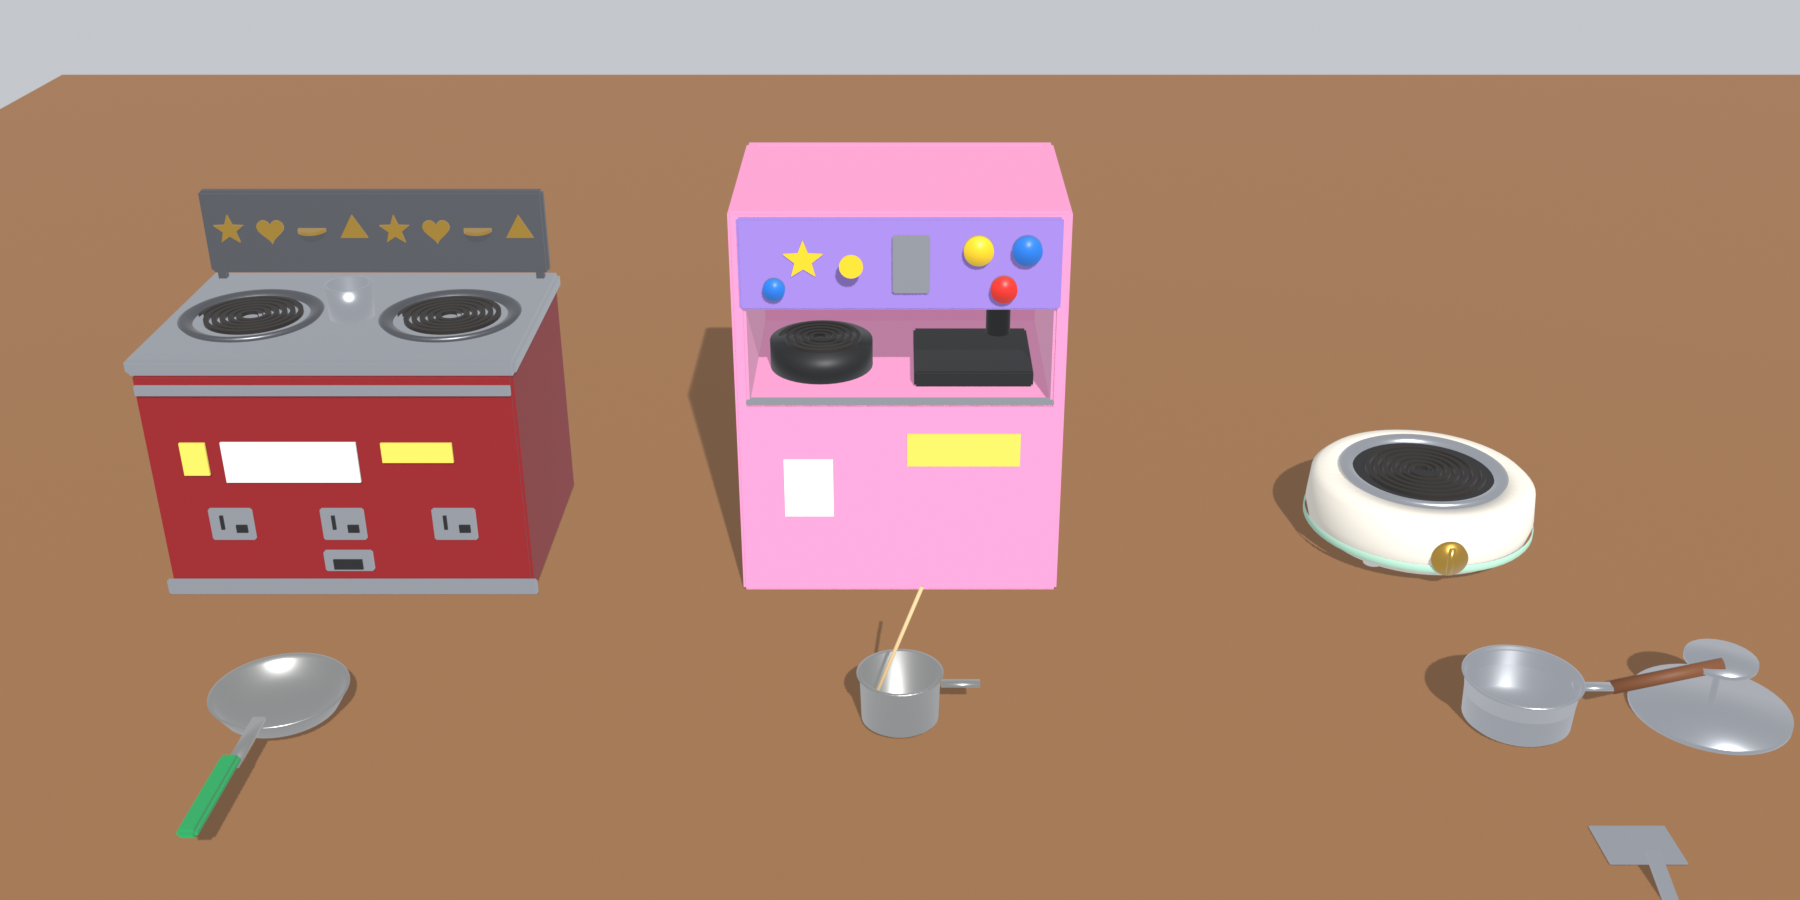
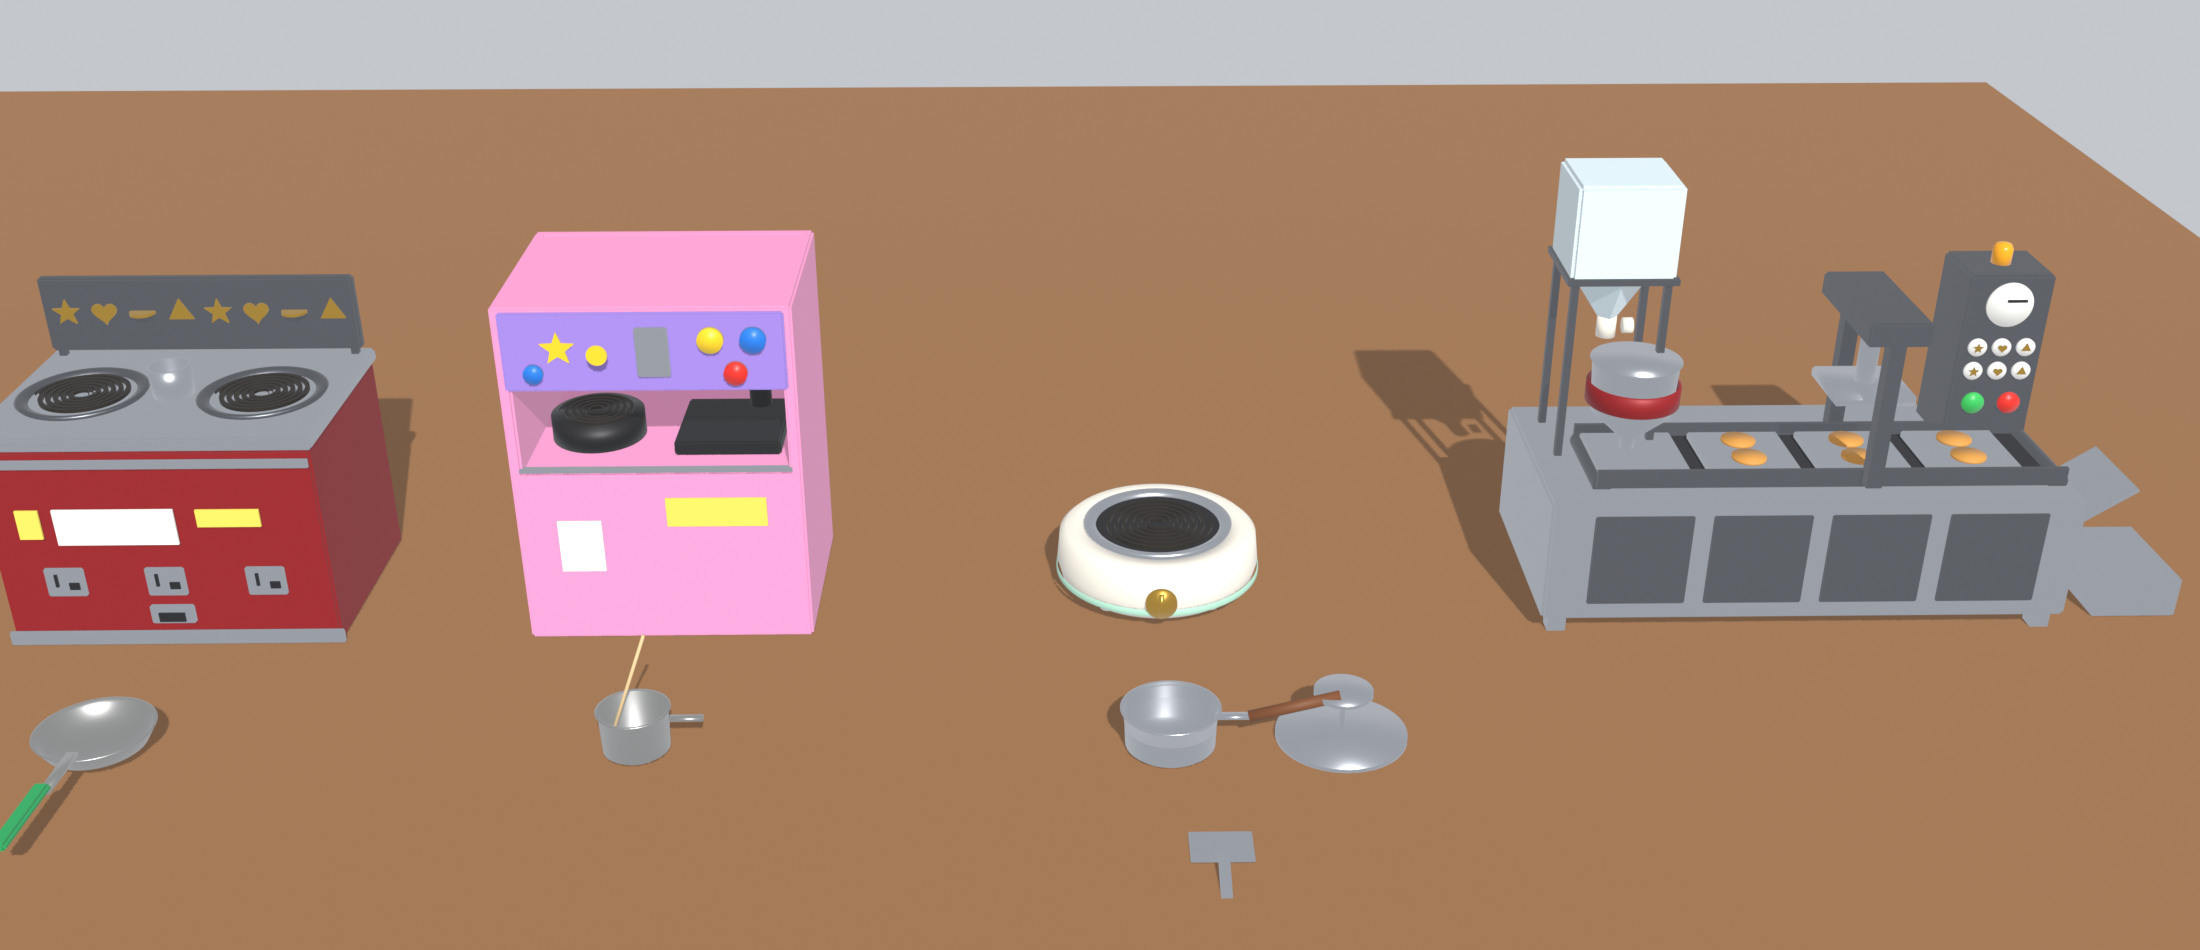
feat: Lv5 factory dalgona machine (hopper, kettle, conveyor, stamping press, shape-select panel) and design for pick-a-shape auto production

diff --git a/tools/blender/machines.py b/tools/blender/machines.py
@@ -400,6 +400,145 @@ def era4_tools():
     return objs
 
 
+
+# ─────────────────────────── 5단계(최고 등급): 공장식 달고나 기계 ───────────────────────────
+# 사용자 결정 (2026-11-18): 가장 높은 등급 = 진짜 기계로 뽑아내는 공장식. 기계를 눌러 도안을 고르면 그 모양만 뽑아냄.
+# 레퍼런스: 사용자 사진(자판기 속: 투명 설탕 통 + 아래 나사식 공급기·흰 손잡이, 아날로그 계기판이 달린 제어판, 배선),
+# 사탕 공장 디포지터 라인(설탕 통 → 끓이는 솥 → 노즐로 틀에 떨어뜨림 → 컨베이어 → 눌러 찍기 → 나오는 곳).
+# 왼쪽부터: 투명 설탕 통 → 스테인리스 솥(빨간 가열 띠) + 노즐 → 컨베이어 위 틀 쟁반 → 가운데 찍는 프레스(문) →
+# 오른쪽 제어판(계기판·도안 고르는 버튼 6개·시작/정지·경고등) → 끝의 미끄럼판 → 받는 쟁반.
+GLASS = ("Glass", (220, 236, 240), 0.0, 0.05, "Glass")
+BELT = ("Belt", (46, 46, 50), 0.0, 0.8, "Rubber")
+GREEN_BTN = ("GreenButton", (60, 190, 90), 0.0, 0.4, "SmoothPlastic")
+AMBER = ("Amber", (255, 170, 30), 0.0, 0.3, "Neon")
+GAUGE = ("GaugeFace", (246, 244, 236), 0.0, 0.5, "SmoothPlastic")
+DALGONA = ("Dalgona", (214, 150, 70), 0.0, 0.6, "SmoothPlastic")
+
+
+def era5():
+    W, D = 8.6, 3.8
+    BASE_H = 2.4
+    BELT_Z = BASE_H + 0.12
+    objs = []
+    bm = bmesh.new()  # 스테인리스 받침 몸통 + 다리
+    add_box(bm, (0, 0, 0.3 + (BASE_H - 0.3) / 2), (W, D, BASE_H - 0.3), bevel=0.05)
+    for x in (-W / 2 + 0.3, W / 2 - 0.3):
+        for y in (-D / 2 + 0.3, D / 2 - 0.3):
+            add_box(bm, (x, y, 0.15), (0.3, 0.3, 0.3))
+    objs.append(finish("Era5_Base", bm, STEEL))
+    bm = bmesh.new()  # 앞면 문 손잡이·환기구 줄 (어두운 쇠)
+    for x in (-2.8, -0.9, 1.0, 2.9):
+        add_box(bm, (x, -D / 2 - 0.02, 1.4), (1.6, 0.04, 1.6), bevel=0.02)
+    objs.append(finish("Era5_Doors", bm, STEEL_DARK))
+    # 컨베이어: 고무 벨트 + 양 끝 롤러 + 옆 테두리
+    bm = bmesh.new()
+    add_box(bm, (0.3, -0.5, BELT_Z), (W - 1.2, 1.6, 0.08))
+    objs.append(finish("Era5_Belt", bm, BELT))
+    bm = bmesh.new()
+    for x in (-W / 2 + 0.9, W / 2 - 0.3):
+        add_cyl(bm, (x, -0.5, BELT_Z - 0.05), 0.16, 1.7, seg=24, axis="Y")
+    for y in (-1.38, 0.38):
+        add_box(bm, (0.3, y, BELT_Z + 0.08), (W - 1.0, 0.08, 0.3))
+    objs.append(finish("Era5_Rails", bm, STEEL_DARK))
+    # 틀 쟁반 4개 (둥근 홈 2개씩) + 그 위 달고나 몇 개
+    bm = bmesh.new()
+    trays = [-2.7, -0.9, 0.9, 2.7]
+    for x in trays:
+        add_box(bm, (x, -0.5, BELT_Z + 0.1), (1.5, 1.4, 0.12), bevel=0.02)
+    objs.append(finish("Era5_Trays", bm, STEEL))
+    bm = bmesh.new()
+    for x in trays[1:]:
+        for y in (-0.82, -0.18):
+            add_cyl(bm, (x, y, BELT_Z + 0.18), 0.28, 0.05, seg=24)
+    objs.append(finish("Era5_Dalgona", bm, DALGONA, smooth=True))
+    # 왼쪽: 투명 설탕 통 (아래가 좁아지는 깔때기) + 흰 손잡이 공급기 + 솥
+    hx = -W / 2 + 1.2
+    bm = bmesh.new()
+    add_box(bm, (hx, 0.6, BASE_H + 3.9), (1.7, 1.5, 1.6), bevel=0.06)
+    add_lathe(bm, [(0.15, 0.0), (0.75, 0.9)], center=(hx, 0.6, BASE_H + 2.2), seg=4)
+    objs.append(finish("Era5_Hopper", bm, GLASS))
+    bm = bmesh.new()  # 통 속 설탕
+    add_box(bm, (hx, 0.6, BASE_H + 3.55), (1.5, 1.3, 0.85))
+    objs.append(finish("Era5_Sugar", bm, WHITE))
+    bm = bmesh.new()  # 공급기(나사 통) + 흰 손잡이
+    add_cyl(bm, (hx, 0.6, BASE_H + 2.05), 0.16, 0.35, seg=20)
+    add_cyl(bm, (hx + 0.35, 0.6, BASE_H + 2.05), 0.13, 0.16, seg=20, axis="X")
+    objs.append(finish("Era5_Feeder", bm, CREAM, smooth=True))
+    bm = bmesh.new()  # 설탕 통 받침대: 기둥 4개 + 통 아래 테
+    for dx in (-0.75, 0.75):
+        for dy in (-0.05, 1.25):
+            add_box(bm, (hx + dx, dy, BASE_H + 1.55), (0.12, 0.12, 3.1))
+    add_box(bm, (hx, 0.6, BASE_H + 3.1), (1.8, 1.6, 0.1))
+    objs.append(finish("Era5_HopperStand", bm, STEEL_DARK))
+    bm = bmesh.new()  # 솥: 원통 + 아래 원뿔, 노즐이 컨베이어 쪽으로
+    add_lathe(bm, [(0.0, 0.0), (0.12, 0.0), (0.12, 0.25), (0.65, 0.75), (0.7, 1.6), (0.74, 1.65), (0.0, 1.65)], center=(hx + 0.3, -0.35, BASE_H + 0.2), seg=40)
+    add_box(bm, (hx + 0.3, 0.1, BASE_H + 1.45), (0.12, 0.9, 0.12))  # 통 → 솥 관
+    objs.append(finish("Era5_Kettle", bm, STEEL, smooth=True))
+    bm = bmesh.new()  # 솥 가열 띠
+    add_lathe(bm, [(0.72, 0.9), (0.76, 0.92), (0.76, 1.25), (0.72, 1.27)], center=(hx + 0.3, -0.35, BASE_H + 0.2), seg=40)
+    objs.append(finish("Era5_Heater", bm, RED_BODY, smooth=True))
+    # 가운데 찍는 프레스: 기둥 2개 + 위 들보 + 피스톤 + 도장판(고른 도안이 끼워짐)
+    px = 0.9
+    bm = bmesh.new()
+    for y in (-1.5, 0.5):
+        add_box(bm, (px, y, BELT_Z + 1.3), (0.25, 0.25, 2.6))
+    add_box(bm, (px, -0.5, BELT_Z + 2.65), (1.0, 2.3, 0.4), bevel=0.04)
+    objs.append(finish("Era5_PressFrame", bm, STEEL_DARK))
+    bm = bmesh.new()
+    add_cyl(bm, (px, -0.5, BELT_Z + 1.95), 0.16, 1.1, seg=24)
+    add_box(bm, (px, -0.5, BELT_Z + 1.3), (1.3, 1.25, 0.18), bevel=0.03)
+    objs.append(finish("Era5_PressHead", bm, STEEL, smooth=True))
+    bm = bmesh.new()  # 도장판 아래 도안 자국 (예시 별 2개, 게임에서 고른 도안으로 바꿈)
+    for y in (-0.82, -0.18):
+        add_star(bm, (px, y, BELT_Z + 1.2), 0.24, 0.1, 0.04)
+    objs.append(finish("Era5_Stamp", bm, GOLD))
+    # 오른쪽 제어판: 기울어진 상자 + 계기판 + 도안 버튼 6개 + 시작·정지 + 경고등
+    cx = W / 2 - 0.9
+    bm = bmesh.new()
+    add_box(bm, (cx, 0.9, BASE_H + 1.5), (1.4, 1.2, 3.0), bevel=0.05)
+    objs.append(finish("Era5_Panel", bm, STEEL_DARK))
+    bm = bmesh.new()
+    add_cyl(bm, (cx, 0.28, BASE_H + 2.5), 0.38, 0.06, seg=40, axis="Y")
+    objs.append(finish("Era5_Gauge", bm, GAUGE, smooth=True))
+    bm = bmesh.new()  # 계기 바늘
+    add_box(bm, (cx + 0.1, 0.23, BASE_H + 2.58), (0.32, 0.03, 0.04))
+    objs.append(finish("Era5_Needle", bm, BLACK))
+    bm = bmesh.new()  # 도안 고르는 버튼 6개 (금색 도형은 따로)
+    for i in range(6):
+        add_cyl(bm, (cx - 0.4 + (i % 3) * 0.4, 0.28, BASE_H + 1.75 - (i // 3) * 0.42), 0.15, 0.08, seg=24, axis="Y")
+    objs.append(finish("Era5_ShapeButtons", bm, WHITE, smooth=True))
+    bm = bmesh.new()  # 버튼 위 도형 (별·하트·원·세모·우산 대신 단순 모양)
+    for i in range(6):
+        c = (cx - 0.4 + (i % 3) * 0.4, 0.22, BASE_H + 1.75 - (i // 3) * 0.42)
+        k = i % 3
+        if k == 0:
+            add_star(bm, (0, 0, 0), 0.09, 0.04, 0.02)
+        elif k == 1:
+            add_heart(bm, (0, 0, 0), 0.08, 0.02)
+        else:
+            add_star(bm, (0, 0, 0), 0.09, 0.045, 0.02, points=3)
+        vs = [v for v in bm.verts if v.co.length < 0.2 and abs(v.co.z) < 0.02]
+        bmesh.ops.rotate(bm, verts=vs, cent=(0, 0, 0), matrix=Matrix.Rotation(math.pi / 2, 3, "X"))
+        bmesh.ops.translate(bm, verts=vs, vec=c)
+    objs.append(finish("Era5_ShapeIcons", bm, GOLD))
+    bm = bmesh.new()
+    add_cyl(bm, (cx - 0.3, 0.28, BASE_H + 0.75), 0.18, 0.1, seg=24, axis="Y")
+    objs.append(finish("Era5_Start", bm, GREEN_BTN, smooth=True))
+    bm = bmesh.new()
+    add_cyl(bm, (cx + 0.3, 0.28, BASE_H + 0.75), 0.18, 0.1, seg=24, axis="Y")
+    objs.append(finish("Era5_Stop", bm, REDB, smooth=True))
+    bm = bmesh.new()  # 경고등
+    add_lathe(bm, [(0.0, 0.0), (0.16, 0.0), (0.16, 0.25), (0.12, 0.33), (0.0, 0.36)], center=(cx, 0.9, BASE_H + 3.0), seg=24)
+    objs.append(finish("Era5_Beacon", bm, AMBER, smooth=True))
+    # 끝: 미끄럼판 + 받는 쟁반
+    bm = bmesh.new()
+    add_box(bm, (W / 2 + 0.55, -0.5, BELT_Z - 0.6), (1.3, 1.6, 0.06))
+    vs = [v for v in bm.verts]
+    bmesh.ops.rotate(bm, verts=vs, cent=(W / 2 + 0.55, -0.5, BELT_Z - 0.6), matrix=Matrix.Rotation(-0.6, 3, "Y"))
+    add_box(bm, (W / 2 + 1.4, -0.5, 0.35), (1.4, 1.9, 0.7), bevel=0.03)
+    objs.append(finish("Era5_Chute", bm, STEEL))
+    return objs
+
 groups = {
     "Era2": (era2(), (-12, 0, 0)),
     "Era2Tools": (era2_ladle(), (-12, -5, 0.4)),  # 국자 기준점 = 그릇 테두리 가운데라 미리 보기에선 띄움
@@ -407,6 +546,7 @@ groups = {
     "Era3Tools": (era3_cup(), (-4, -5, 0)),
     "Era4": (era4(), (4, 0, 0)),
     "Era4Tools": (era4_tools(), (4, -5, 0)),
+    "Era5": (era5(), (14.5, 0, 0)),
 }
 
 # 내보내기 전: 모두 원점(0,0,0)에 둔 채로 내보냄 (게임에서 위치를 정함). 크기·기준점 기록
@@ -444,12 +584,12 @@ sun.rotation_euler = (math.radians(50), math.radians(-15), math.radians(25))
 scene.collection.objects.link(sun)
 cam = bpy.data.objects.new("Cam", bpy.data.cameras.new("Cam"))
 cam.data.lens = 35
-cam.location = (-4, -24, 13)
-cam.rotation_euler = (Vector((-4, -1.5, 2.2)) - cam.location).to_track_quat("-Z", "Y").to_euler()
+cam.location = (2.5, -32, 18)
+cam.rotation_euler = (Vector((3.0, -1.5, 2.8)) - cam.location).to_track_quat("-Z", "Y").to_euler()
 scene.collection.objects.link(cam)
 scene.camera = cam
 scene.render.engine = "BLENDER_EEVEE"
-scene.render.resolution_x, scene.render.resolution_y = 1800, 900
+scene.render.resolution_x, scene.render.resolution_y = 2200, 950
 scene.view_settings.view_transform = "Standard"
 scene.render.filepath = os.path.abspath(os.path.join(OUT, "machines_preview.png"))
 bpy.ops.render.render(write_still=True)

diff --git a/docs/MACHINE_ERAS.md b/docs/MACHINE_ERAS.md
@@ -8,6 +8,7 @@
 - 직접 찾아본 것 (구글 이미지 검색, 2026-11-18):
   - "달고나 자판기 문방구": 분홍 캐비닛 + 보라 안내판(만화 그림·풍선·구름), 은색 동전기, 둥근 버튼(노랑·파랑·빨강 불빛·흰색), 가운데 움푹한 선반의 왼쪽 알루미늄 컵(설탕 녹이기, 꼬치가 꽂힘)·오른쪽 검은 사각 누름판과 원통 누름 손잡이, 아래 노란 주의 스티커. 2000·2011년 표시된 사진도 있음. "고장 수리" 영상의 스테인리스 판매기(화구 2개)도 같은 계보.
   - "달고나 메이커 가정용": 파스텔(분홍·흰·민트) 둥근 미니 전기 화구 + 은색 링 + 검은 나선 열선 + 금색 다이얼, 스테인리스 손잡이 냄비(나무 손잡이), 동그란 누름판, 도안 틀·헤라·꼬치가 든 세트.
+- 공장식(Lv5): 사용자 사진(자판기 속 투명 설탕 통 + 나사식 공급기·흰 손잡이, 계기판 달린 제어판, 배선: `images/machines/ref_era5_inside.jpg`)과 사탕 공장 디포지터 라인(설탕 통 → 솥 → 노즐 → 틀 → 컨베이어)을 합쳐 만듦. 검색으로는 실제 달고나 공장 기계 사진을 찾지 못함 (수제·자판기 영상, 포장 기계만 나옴).
 - 글 자료(웹 검색): 문방구 달고나 자판기는 연탄 대신 열선이고 동전을 넣으면 설탕이 나오는 방식([thewiki.kr 달고나](https://thewiki.kr/w/달고나)). 1970~80년대 길거리 간식으로 유행.
 - 실제 기계의 상표·캐릭터 그림은 따라 그리지 않는다. 3D는 색 면과 단순한 별·구름 무늬만.
 
@@ -18,11 +19,20 @@
 | 2 | 1990~2000년대 초 | **1세대 철제 달고나 판매기**: 스테인리스 윗판 + 열선 화구 2개 + 뒤쪽 금형 견본판(도안 8칸) + 빨간 철판 몸통 + 동전 투입기 3개 | 알루미늄 국자 + 초록 플라스틱 손잡이 | `Era2_*`, `Era2_Ladle`·`Era2_LadleGrip` |
 | 3 | 2000년대 후반~2010년대 | **2세대 분홍 캐릭터 자판기**: 분홍 캐비닛 + 보라 안내판 + 동전기 + 둥근 버튼, 선반에 전기 화구와 검은 누름판·누름 손잡이 | 알루미늄 녹이는 컵 + 나무 꼬치 | `Era3_*`, `Era3_Cup`·`Era3_Stick` |
 | 4 | 2020년대 | **가정용 미니 달고나 메이커**: 파스텔 둥근 전기 화구 + 금색 다이얼 | 스테인리스 손잡이 냄비(나무 손잡이), 동그란 누름판, 헤라 | `Era4_*`, `Era4_Pan`·`Era4_PanHandle`·`Era4_Presser`·`Era4_Scraper` |
+| 5 (최고) | 공장식 | **공장식 달고나 기계**: 투명 설탕 통 + 공급기 → 스테인리스 솥(빨간 가열 띠) + 노즐 → 컨베이어 위 틀 쟁반 → 가운데 찍는 프레스 → 제어판(계기판·도안 버튼 6개·시작/정지·경고등) → 미끄럼판 → 받는 쟁반 | 없음 (기계가 다 함) | `Era5_*` |
 
 기획서 표 14("화로 Lv마다 적정 온도 구간 +8%")는 그대로 기계 Lv에 붙인다. 시대별로 손맛이 조금씩 달라지는 안(승인 필요):
 - Lv2 열선: 온도가 연탄보다 빨리 오르내림 → 높이 조작 반응이 빠름. 화구 2개라 한 판 끝나면 다음 판 준비가 빠름(대기 시간 감소).
 - Lv3 자판기: 동전을 넣으면 설탕이 정량으로 나옴 → 설탕 단계 실수가 줄어듦(설탕 점수 하한), 누름판이 레버라 누르기 구간 +.
 - Lv4 가정용 메이커: 다이얼로 온도를 고름(높이 대신 다이얼) → 적정 온도 구간이 가장 넓음, 냄비 손잡이가 길어 붓기 쉬움.
+
+## Lv5 공장식 기계: 눌러서 도안을 고르면 그 모양만 뽑아냄 (사용자 결정 2026-11-18)
+1. 기계(제어판)를 누르면 도안 고르기 화면(지금 `CutterPicker`)이 뜸. 고른 도안이 제어판 버튼 불빛과 프레스 도장판(`Era5_Stamp`)에 끼워짐.
+2. 시작 버튼 → 손 미니게임 없이 기계가 자동으로 돌아감 (연출):
+   설탕 통에서 설탕이 공급기로 내려감 → 솥에서 끓음(계기판 바늘이 올라감, 경고등 깜빡) → 노즐이 틀 쟁반에 반죽을 떨어뜨림 →
+   컨베이어가 프레스 밑으로 → 고른 도안으로 쿵 찍음 → 미끄럼판으로 내려가 받는 쟁반에 쌓임.
+3. 한 번 돌릴 때 고른 도안만 여러 개(예: 4개) 나오고, 품질은 고정(예: Excellent, 실패 없음). 손으로 만들면 Perfect도 나올 수 있으니 손맛은 남음.
+4. 개수·품질·한 판 시간·연료(설탕 소모)는 경제 수치라 PM·사용자 승인 뒤 정함.
 
 ## 3D 파일
 - 만드는 스크립트: `tools/blender/machines.py` → `레퍼런스/machines/dalgona_machines.glb` (+ `machines_preview.png`, `machines_parts.txt`).
@@ -30,6 +40,7 @@
   - Lv2: 폭 5.4 · 깊이 3.6 · 높이 3.7 (+ 뒤쪽 견본판 1.4), 화구 2개 x ±1.45.
   - Lv3: 폭 4.6 · 깊이 3.4 · 높이 5.8, 선반 높이 3.0, 화구(왼쪽)·누름판(오른쪽).
   - Lv4: 지름 3.4 · 높이 1.1 (작은 기계라 테이블 위 받침이 필요할 수 있음).
+  - Lv5: 폭 8.6(+ 미끄럼판·받는 쟁반 2) · 깊이 3.8 · 높이 약 7.9 (설탕 통 꼭대기). 테이블 대신 바닥에 놓는 기계로 쓰는 게 자연스러움 (받침 높이 2.4).
 - 부품마다 색·Roblox 재질·기준점에서 경계 상자 가운데까지 거리를 `machines_parts.txt`에 적어 둠 (glb 금속도·거칠기는 Roblox로 안 넘어가서 빌더가 색·재질을 직접 칠함).
 - 미리 보기: `images/machines/machines_preview.png`.
 
